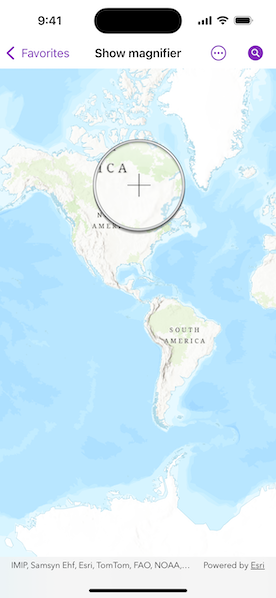
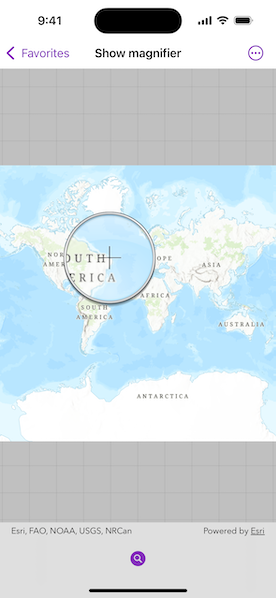
update image

diff --git a/Shared/Samples/Show magnifier/ShowMagnifierView.swift b/Shared/Samples/Show magnifier/ShowMagnifierView.swift
@@ -29,7 +29,7 @@ struct ShowMagnifierView: View {
             // Enable/disable panning as the magnifier approaches a map edge.
             .magnifierEdgePanningDisabled(false)
             .toolbar {
-                ToolbarItem(placement: .navigationBarTrailing) {
+                ToolbarItem(placement: .bottomBar) {
                     // Button to toggle whether the magnifier is enabled.
                     Button {
                         magnifierIsEnabled.toggle()
